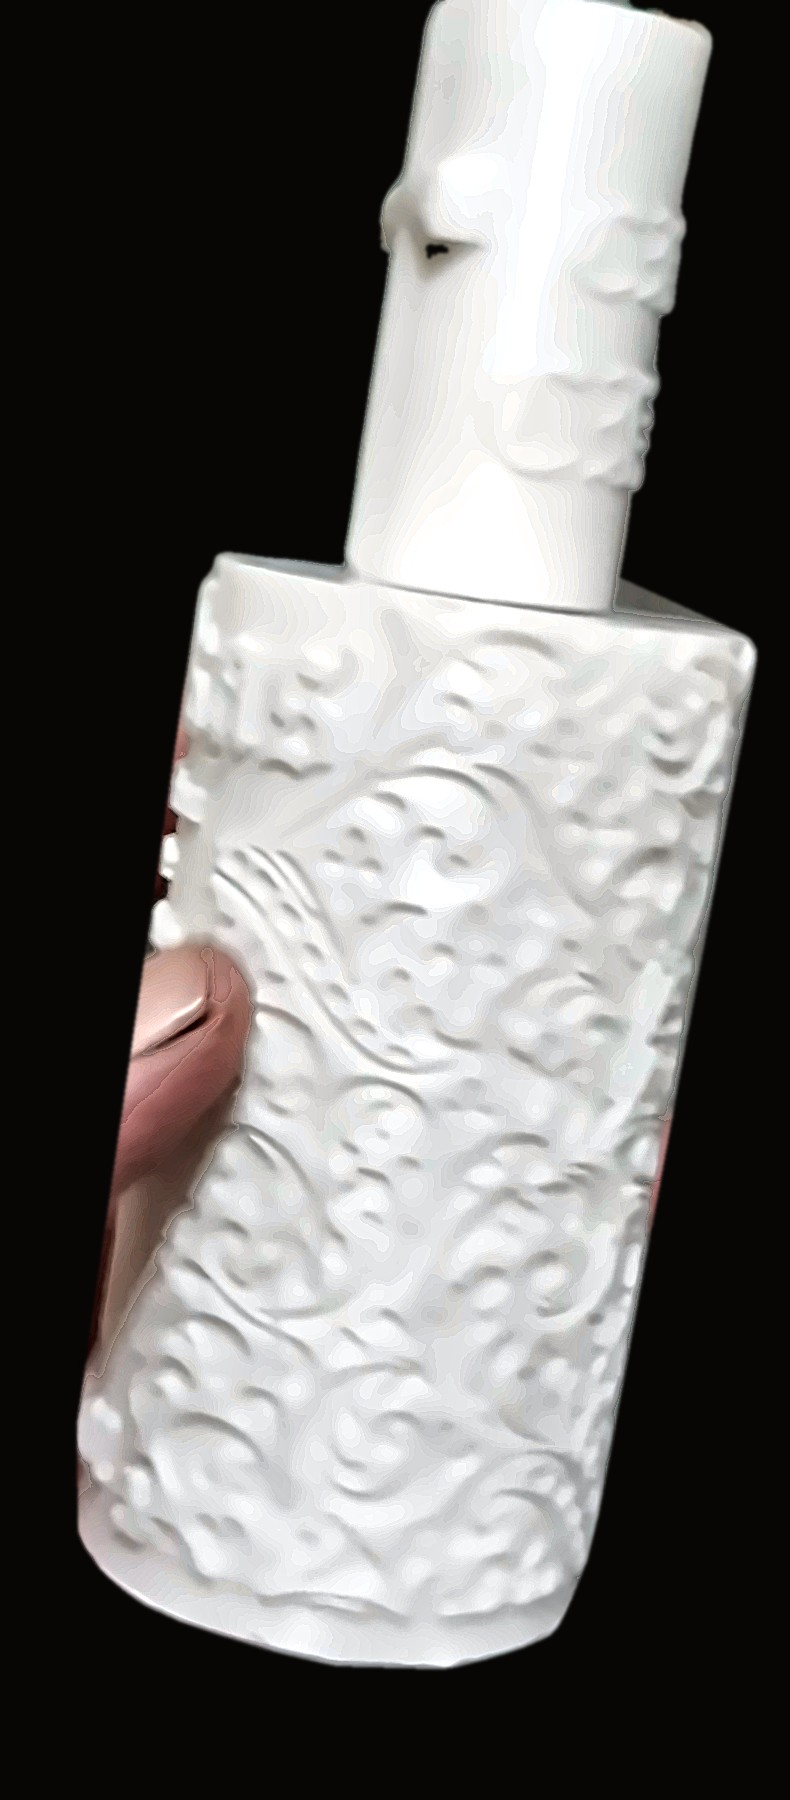
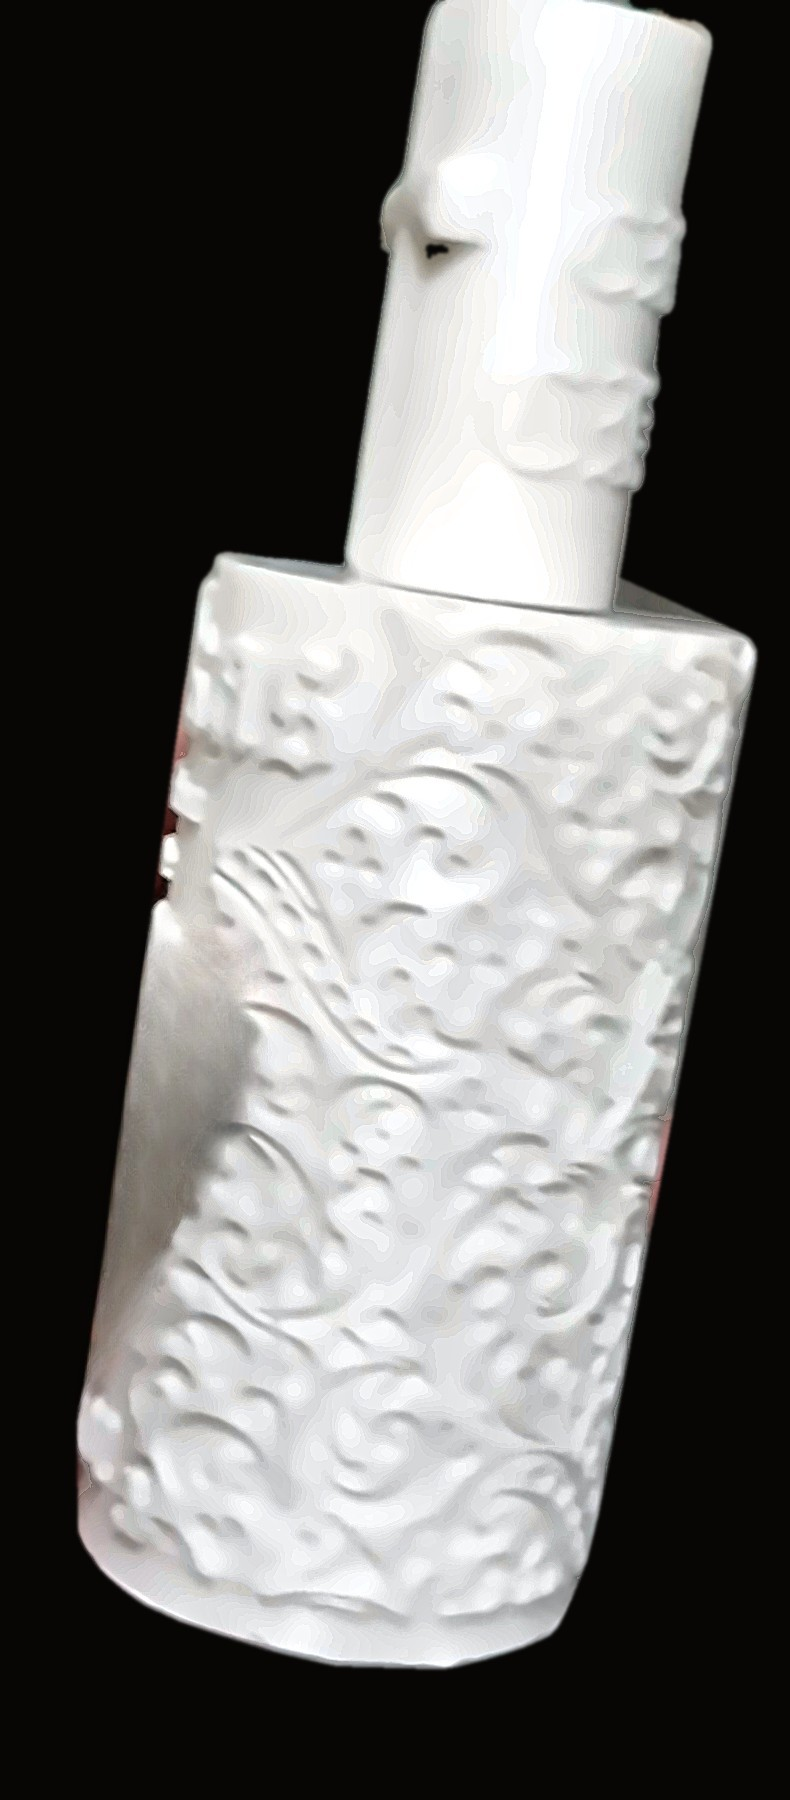
Remove thumb from scrollwork photo; switch brand/headings to Cinzel for legibility

Changed region(s): [[0.0911, 0.4978, 0.3342, 0.7778]]

diff --git a/index.html b/index.html
@@ -1,24 +1,24 @@
 <!DOCTYPE html><html lang="en"><head><meta charset="utf-8"><meta name="viewport" content="width=device-width,initial-scale=1">
-<title>CIKAS — Christ Is King And Savior | Extrait de Parfum</title>
-<meta name="description" content="CIKAS: Christ Is King And Savior. Extrait de parfum in hand-finished, 3D-printed ornate bottles.">
+<title>Cikas — Christ Is King And Savior | Extrait de Parfum</title>
+<meta name="description" content="Cikas: Christ Is King And Savior. Extrait de parfum in hand-finished, 3D-printed ornate bottles.">
 <link rel="preconnect" href="https://fonts.googleapis.com"><link rel="preconnect" href="https://fonts.gstatic.com" crossorigin>
-<link href="https://fonts.googleapis.com/css2?family=UnifrakturMaguntia&family=Cormorant+Garamond:ital,wght@0,400;0,600;1,400&display=swap" rel="stylesheet">
+<link href="https://fonts.googleapis.com/css2?family=Cinzel:wght@500;600;700&family=Cinzel+Decorative:wght@700&family=Cormorant+Garamond:ital,wght@0,400;0,600;1,400&display=swap" rel="stylesheet">
 <style>
 :root{--black:#0c0b09;--ink:#16140f;--cream:#f2ead8;--gold:#c9a45c;--gold2:#e6c886;--muted:#b9ad94}
 *{box-sizing:border-box;margin:0;padding:0}html{scroll-behavior:smooth}
 body{background:var(--black);color:var(--cream);font-family:'Cormorant Garamond',Georgia,serif;font-size:1.2rem;line-height:1.7}
 img{max-width:100%;display:block}a{color:var(--gold2)}
-.bl{font-family:'UnifrakturMaguntia',serif;font-weight:400}
+.bl{font-family:'Cinzel',serif;font-weight:400}
 nav{position:sticky;top:0;z-index:10;display:flex;justify-content:space-between;align-items:center;padding:.8rem 5vw;background:rgba(12,11,9,.92);border-bottom:1px solid rgba(201,164,92,.25)}
 nav .logo{font-size:1.9rem;color:var(--gold2);text-decoration:none}
 nav ul{display:flex;gap:1.6rem;list-style:none}nav ul a{color:var(--cream);text-decoration:none;font-size:.95rem;letter-spacing:.15em;text-transform:uppercase}nav ul a:hover{color:var(--gold2)}
 .wrap{max-width:1150px;margin:0 auto;padding:0 5vw}
 section{padding:6.5rem 0}
 .eyebrow{letter-spacing:.35em;text-transform:uppercase;font-size:.85rem;color:var(--gold)}
-h2{font-family:'UnifrakturMaguntia',serif;font-weight:400;font-size:clamp(2.4rem,5vw,3.6rem);color:var(--gold2);line-height:1.15;margin:.4rem 0 1.4rem}
+h2{font-family:'Cinzel',serif;font-weight:400;font-size:clamp(2.4rem,5vw,3.6rem);color:var(--gold2);line-height:1.15;margin:.4rem 0 1.4rem}
 .orn{color:var(--gold);text-align:center;letter-spacing:.6em;margin:1.2rem 0;font-size:1.1rem}
 .hero{min-height:min(92vh,760px);display:grid;grid-template-columns:1.1fr .9fr;gap:4rem;align-items:center;padding:4rem 5vw;max-width:1250px;margin:0 auto}
-.hero h1{font-family:'UnifrakturMaguntia',serif;font-weight:400;font-size:clamp(4.5rem,11vw,8.5rem);line-height:1;color:var(--cream);text-shadow:0 0 40px rgba(201,164,92,.25)}
+.hero h1{font-family:'Cinzel',serif;font-weight:400;font-size:clamp(4.5rem,11vw,8.5rem);line-height:1;color:var(--cream);text-shadow:0 0 40px rgba(201,164,92,.25)}
 .hero .meaning{font-size:clamp(1.3rem,2.4vw,1.8rem);font-style:italic;color:var(--gold2);margin:1rem 0 .4rem}
 .hero p.sub{color:var(--muted);max-width:30rem}
 .btn{display:inline-block;margin-top:2rem;padding:.85rem 2.2rem;border:1px solid var(--gold);color:var(--gold2);text-decoration:none;letter-spacing:.25em;text-transform:uppercase;font-size:.85rem;transition:.3s}.btn:hover{background:var(--gold);color:var(--black)}
@@ -34,7 +34,7 @@ h2{font-family:'UnifrakturMaguntia',serif;font-weight:400;font-size:clamp(2.4rem
 .grid3{display:grid;grid-template-columns:repeat(3,1fr);gap:2rem;margin-top:2.5rem}
 .card{border:1px solid rgba(201,164,92,.35);padding:2rem 1.6rem;text-align:center;background:linear-gradient(180deg,#151310,#0e0d0b)}
 .sw{width:64px;height:64px;border-radius:50%;margin:0 auto 1.2rem;border:2px solid var(--gold)}
-.card h3{font-family:'UnifrakturMaguntia',serif;font-weight:400;font-size:2.1rem;color:var(--gold2)}
+.card h3{font-family:'Cinzel',serif;font-weight:400;font-size:2.1rem;color:var(--gold2)}
 .card .spec{font-size:.85rem;letter-spacing:.15em;text-transform:uppercase;color:var(--muted);margin:.3rem 0 1rem}
 .ph{display:inline-block;border:1px dashed rgba(201,164,92,.6);padding:.3rem .9rem;font-size:.95rem;color:var(--gold);font-style:italic;margin:.25rem 0}
 .split{display:grid;grid-template-columns:.8fr 1.2fr;gap:4rem;align-items:center}
@@ -64,6 +64,7 @@ section h2{text-shadow:0 0 24px rgba(230,200,134,.2)}
 .price{display:inline-block;margin-top:.6rem;color:var(--gold2);font-size:1.25rem;letter-spacing:.08em;text-shadow:0 0 14px rgba(230,200,134,.3)}
 .cardcross{font-size:1.6rem;color:#fff3d6;text-shadow:0 0 10px #ffe7a8,0 0 26px rgba(201,164,92,.6);margin-bottom:.4rem}
 .cl{margin:.5rem 0}.cl .lab{display:block;font-size:.8rem;letter-spacing:.3em;text-transform:uppercase;color:var(--gold)}.cl a{color:var(--gold2);text-decoration:none;font-size:1.3rem;overflow-wrap:anywhere;text-shadow:0 0 14px rgba(230,200,134,.25)}.cl a:hover{text-decoration:underline}.order{margin-top:1.2rem;color:var(--gold2);font-style:italic}
+.bl,h1,h2,h3{letter-spacing:.06em}.hero h1{font-weight:700;letter-spacing:.08em}h2{font-weight:600}.card h3{font-weight:600;font-size:1.7rem}nav .logo{font-weight:700;letter-spacing:.12em}
 </style></head><body>
 <nav><a class="logo bl" href="#top">Cikas</a><ul><li><a href="#meaning">Meaning</a></li><li><a href="#collection">Collection</a></li><li><a href="#craft">Craft</a></li><li><a href="#contact">Contact</a></li></ul></nav>
 <header class="hero" id="top"><div>
@@ -71,11 +72,11 @@ section h2{text-shadow:0 0 24px rgba(230,200,134,.2)}
 <p class="meaning">Christ Is King And Savior</p><p class="eyebrow" style="color:var(--muted)">The meaning of Cikas</p><div class="orn" style="text-align:inherit"><span class="cross" aria-hidden="true">✝</span></div>
 <p class="sub">A light in the darkness. A cologne and perfume house founded on faith. Each extrait is housed in an ornate, 3D-printed bottle crowned with a cross, a fragrance meant to be worn as a quiet testimony.</p>
 <a class="btn" href="#collection">Discover the Collection</a></div>
-<div class="frame"><img src="images/trio.jpg" width="1350" height="1800" alt="Three CIKAS perfume bottles in white, tan and green with gothic lettering and a cross cutout"></div></header>
+<div class="frame"><img src="images/trio.jpg" width="1350" height="1800" alt="Three Cikas perfume bottles in white, tan and green with gothic lettering and a cross cutout"></div></header>
 <section class="meaningSec" id="meaning"><div class="wrap">
 <p class="eyebrow">The Meaning of the Name</p><div class="orn"><span class="cross" aria-hidden="true">✝</span></div><h2>Five Letters, One Truth</h2>
 <div class="letters"><div><span class="bl">C</span><span class="w">Christ</span></div><div><span class="bl">I</span><span class="w">Is</span></div><div><span class="bl">K</span><span class="w">King</span></div><div><span class="bl">A</span><span class="w">And</span></div><div><span class="bl">S</span><span class="w">Savior</span></div></div>
-<blockquote>CIKAS is more than a name on a bottle. It is a declaration, carried with you and shared with everyone you meet.</blockquote></div></section>
+<blockquote>Cikas is more than a name on a bottle. It is a declaration, carried with you and shared with everyone you meet.</blockquote></div></section>
 <section id="collection"><div class="wrap" style="text-align:center">
 <p class="eyebrow">The Collection</p><h2>Six Fragrances</h2><p style="color:var(--muted)">Extrait de parfum · 3.4 FL OZ · Bottles come in white, tan and green</p>
 <div class="grid3">
@@ -87,12 +88,12 @@ section h2{text-shadow:0 0 24px rgba(230,200,134,.2)}
 <div class="card"><div class="cardcross" aria-hidden="true">✝</div><h3>TierradeEL</h3><p class="spec">Extrait de Parfum · <span style="white-space:nowrap">3.4 FL OZ</span></p><span class="ph">Scent notes coming soon</span><br><span class="price">$20 each + shipping</span></div>
 </div></div></section>
 <section id="craft" style="background:var(--ink)"><div class="wrap split">
-<div class="frame"><img src="images/scrollwork.jpg" width="790" height="1800" alt="Back of the white CIKAS bottle showing ornate baroque scrollwork"></div>
+<div class="frame"><img src="images/scrollwork.jpg" width="790" height="1800" alt="Back of the white Cikas bottle showing ornate baroque scrollwork"></div>
 <div><p class="eyebrow">Craftsmanship</p><h2>Ornate by Design</h2>
-<p>Every CIKAS bottle is 3D-printed, layer by layer, into a sculpted vessel worthy of what it carries. Gothic blackletter lettering graces the front, a cross is cut clean through the glass-like form, and the back unfolds in baroque scrollwork.</p>
+<p>Every Cikas bottle is 3D-printed, layer by layer, into a sculpted vessel worthy of what it carries. Gothic blackletter lettering graces the front, a cross is cut clean through the glass-like form, and the back unfolds in baroque scrollwork.</p>
 <ul><li>3D-printed ornate bottle</li><li>Gothic blackletter “Cikas” lettering</li><li>Cutout cross</li><li>Baroque scrollwork</li><li>Available in white, tan and green</li></ul></div></div></section>
 <section class="contact" id="contact"><div class="wrap">
 <p class="eyebrow">Contact</p><h2>Get in Touch</h2>
 <div class="box"><p class="cl"><span class="lab">Email</span><a href="mailto:servantofthe7eyedlamb@gmail.com">servantofthe7eyedlamb@gmail.com</a></p><p class="cl"><span class="lab">Phone</span><a href="tel:+17085716534">(708) 571-6534</a></p><p class="order">To order, email or call. $20 each + shipping.</p></div></div></section>
-<footer><div class="bl">Cikas</div><p>Christ Is King And Savior · © 2026 CIKAS by Ibrahim Colmenero</p></footer>
+<footer><div class="bl">Cikas</div><p>Christ Is King And Savior · © 2026 Cikas by Ibrahim Colmenero</p></footer>
 </body></html>
